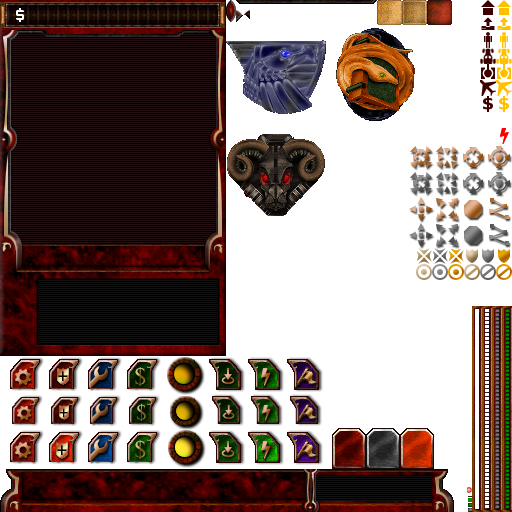
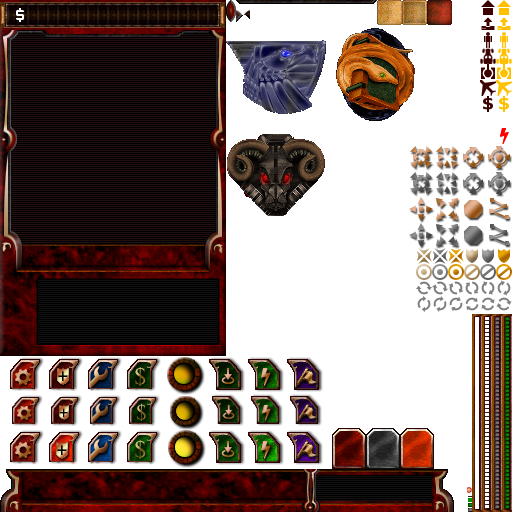
Add an animated reload glyph to the MP server refresh.

Changed region(s): [[0.8125, 0.5312, 1.0, 0.625]]

diff --git a/OpenRA.Mods.Common/Widgets/Logic/MultiplayerLogic.cs b/OpenRA.Mods.Common/Widgets/Logic/MultiplayerLogic.cs
@@ -173,12 +173,29 @@ namespace OpenRA.Mods.Common.Widgets.Logic
 				};
 			}
 
-			var refreshButton = widget.GetOrNull<ButtonWidget>("REFRESH_BUTTON");
-			if (refreshButton != null)
+			var reloadButton = widget.GetOrNull<ButtonWidget>("RELOAD_BUTTON");
+			if (reloadButton != null)
 			{
-				refreshButton.GetText = () => searchStatus == SearchStatus.Fetching ? "Refreshing..." : "Refresh";
-				refreshButton.IsDisabled = () => searchStatus == SearchStatus.Fetching;
-				refreshButton.OnClick = RefreshServerList;
+				reloadButton.IsDisabled = () => searchStatus == SearchStatus.Fetching;
+				reloadButton.OnClick = RefreshServerList;
+
+				var reloadIcon = reloadButton.GetOrNull<ImageWidget>("IMAGE_RELOAD");
+				if (reloadIcon != null)
+				{
+					var disabledFrame = 0;
+					var disabledImage = "disabled-" + disabledFrame.ToString();
+					reloadIcon.GetImageName = () => searchStatus == SearchStatus.Fetching ? disabledImage : reloadIcon.ImageName;
+
+					var reloadTicker = reloadIcon.Get<LogicTickerWidget>("ANIMATION");
+					if (reloadTicker != null)
+					{
+						reloadTicker.OnTick = () =>
+						{
+							disabledFrame = searchStatus == SearchStatus.Fetching ? (disabledFrame + 1) % 12 : 0;
+							disabledImage = "disabled-" + disabledFrame.ToString();
+						};
+					}
+				}
 			}
 
 			mapPreview = widget.GetOrNull<MapPreviewWidget>("SELECTED_MAP_PREVIEW");
